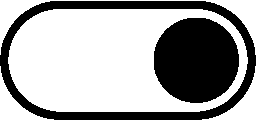
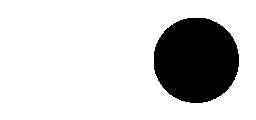
12.6
Lights button fix

Changed region(s): [[0.0, 0.0, 1.0, 1.0]]

diff --git a/src/main/java/com/tonikelope/coronapoker/AboutDialog.java b/src/main/java/com/tonikelope/coronapoker/AboutDialog.java
@@ -30,7 +30,7 @@ import javax.swing.SwingUtilities;
  */
 public class AboutDialog extends javax.swing.JDialog {
 
-    public static final String VERSION = "12.5";
+    public static final String VERSION = "12.6";
     public static final String UPDATE_URL = "https://github.com/tonikelope/coronapoker/releases/latest";
     public static final String TITLE = "¿De dónde ha salido esto?";
     public static final int MAX_MOD_LOGO_HEIGHT = 75;

diff --git a/src/main/java/com/tonikelope/coronapoker/CommunityCardsPanel.java b/src/main/java/com/tonikelope/coronapoker/CommunityCardsPanel.java
@@ -896,6 +896,7 @@ public class CommunityCardsPanel extends javax.swing.JPanel implements ZoomableI
                     pause_button.setIcon(null);
                     pot_label.setIcon(null);
                     bet_label.setIcon(null);
+                    lights_label.setIcon(null);
                 }
             });
 
